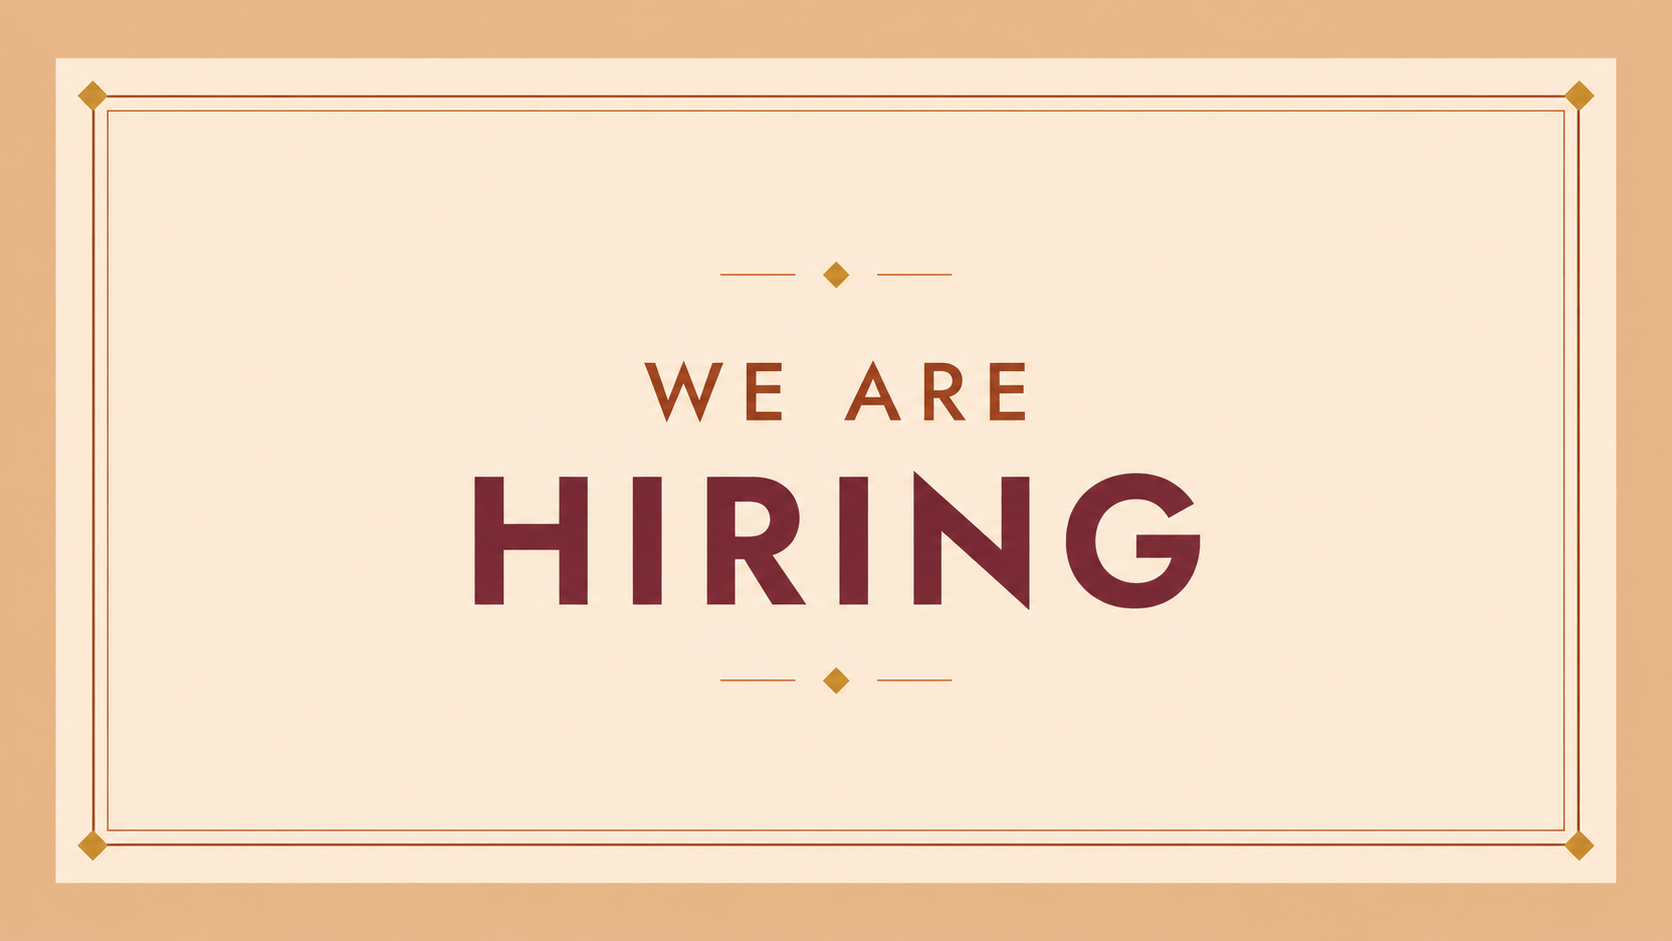
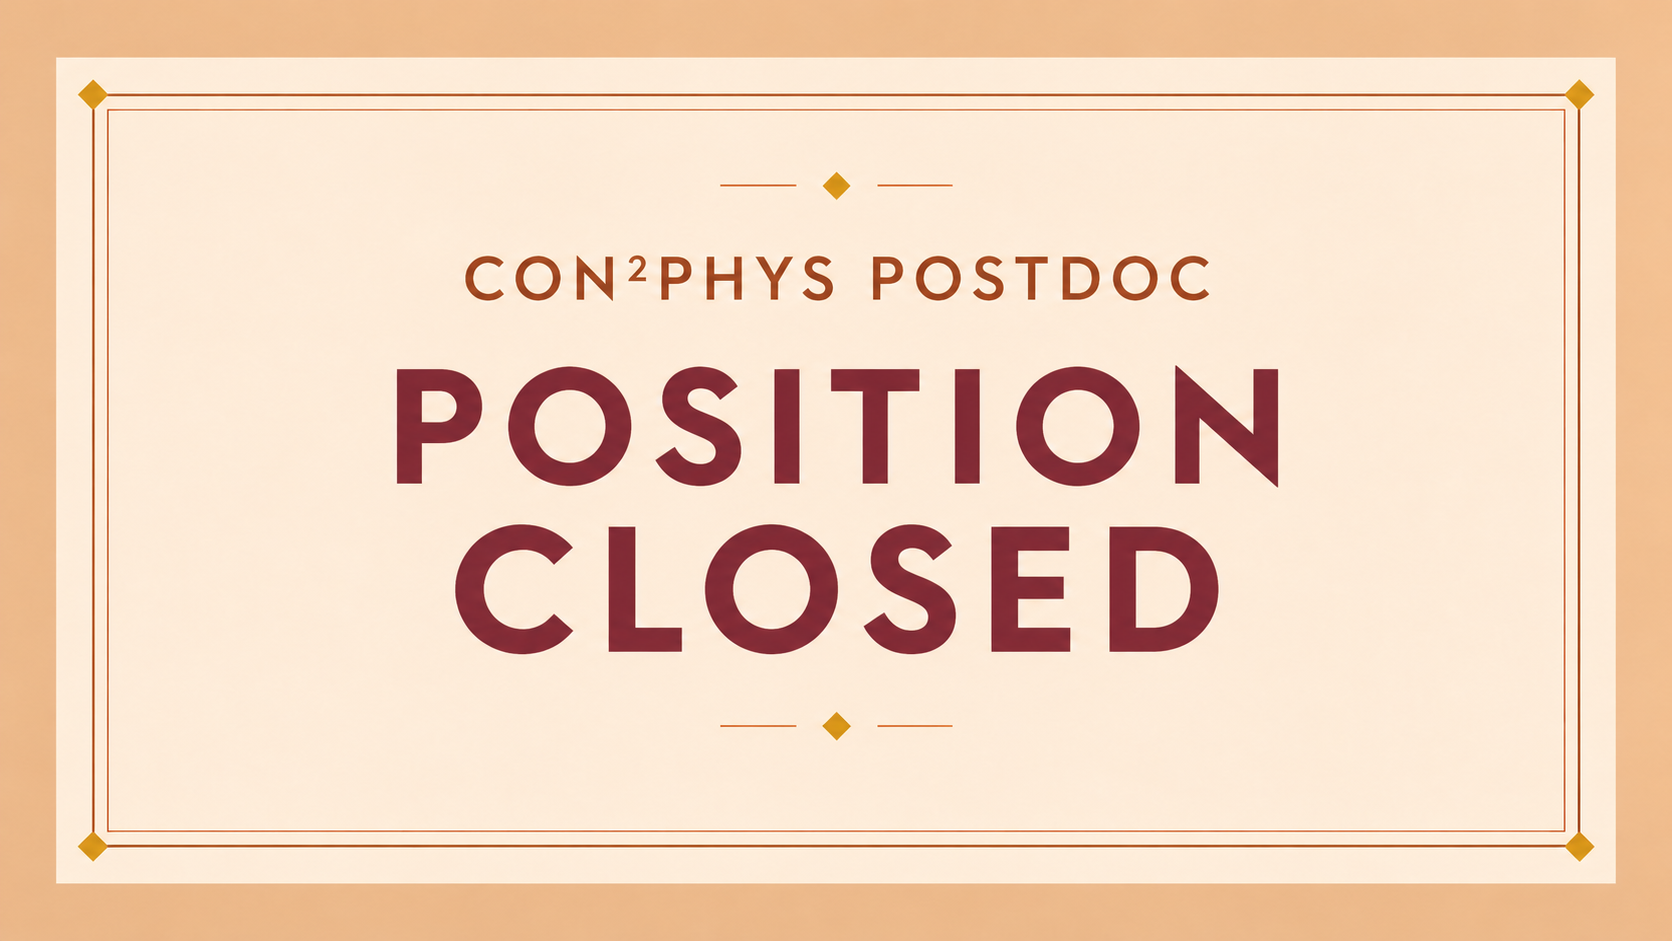
prenano

diff --git a/content/opportunities/_index.md b/content/opportunities/_index.md
@@ -1,35 +1,36 @@
 ---
 title: "Opportunities"
-summary: "Open positions at the Chini Lab, GIGA–ULiège."
+summary: "Funded postdoctoral and PhD positions at the Chini Lab, GIGA–ULiège."
 image:
   filename: "media/og/opportunities.png"
   share: false
-# description: "Current postdoctoral and spontaneous opportunities in the lab."
-type: page 
+# description: "Current funded positions and spontaneous opportunities in the lab."
+type: page
 ---
 <div style="height: 14px;"></div>
 
-## Funded postdoctoral position: CON²PHYS
+## We are hiring: postdoc and PhD positions
 
 <div class="postdoc-callout">
-  <p><strong>The Chini Lab at GIGA–ULiège is looking for an enthusiastic postdoctoral researcher to work on CON²PHYS and related projects.</strong></p>
-  <p>CON²PHYS is a community-wide study of how neuroscientists define, analyze, and interpret electrophysiological phenomena when working with the same data. The project combines systems and computational neuroscience with questions about reproducibility, conceptual consistency, open science, and scientific collaboration.</p>
-  <p>Enthusiasm, curiosity, independence, and genuine interest in the project are the most important qualities.</p>
-  <p>To express your interest, email <a href="mailto:mchini@uliege.be">mchini@uliege.be</a> with your CV and a brief explanation of why the project interests you.</p>
+  <p><strong>We are looking for a postdoctoral researcher and a PhD student to join the Chini Lab at GIGA–ULiège, ideally starting in March 2027!</strong></p>
+  <p>Our lab has received funding as part of a new European research consortium investigating how exposure to nanoplastics during pregnancy may affect early brain development. Together with our collaborators, we will study the consequences for the formation and maturation of neuronal circuits, combining approaches ranging from animal models to human brain organoids. More details about the consortium will be shared following the official announcement.</p>
+  <p><strong>Two positions are available:</strong> a 2-year postdoctoral position and a fully funded 4-year PhD position.</p>
+  <p>Enthusiasm, intellectual curiosity, independence, and a genuine interest in developmental neuroscience matter most. We welcome candidates from different backgrounds who are excited by the questions behind the project.</p>
+  <p>Interested? Email <a href="mailto:mchini@uliege.be">mchini@uliege.be</a> with your CV and a brief message explaining why you would like to join us. A formal cover letter is not necessary at this stage.</p>
   <div class="postdoc-actions">
-    <a class="postdoc-btn postdoc-btn-primary" href="{{< relref "/news/2026-07-15-postdoc-con2phys" >}}">Read the full position description →</a>
-    <a class="postdoc-btn postdoc-btn-secondary" href="mailto:mchini@uliege.be?subject=Postdoctoral%20position%20%E2%80%94%20CON2PHYS">Email Mattia Chini →</a>
+    <a class="postdoc-btn postdoc-btn-primary" href="mailto:mchini@uliege.be?subject=Postdoctoral%20position%20%E2%80%94%20Early%20brain%20development">Postdoc: get in touch →</a>
+    <a class="postdoc-btn postdoc-btn-secondary" href="mailto:mchini@uliege.be?subject=PhD%20position%20%E2%80%94%20Early%20brain%20development">PhD: get in touch →</a>
   </div>
 </div>
 
-## Open applications
+## Spontaneous applications
 
-We welcome spontaneous applications from enthusiastic scientists at any stage: master’s students, PhDs, or postdocs. 
-If you are driven by curiosity and want to work at the intersection of developmental biology, systems and computational neuroscience, 
-you are encouraged to get in touch. All backgrounds, from biology and medicine to physics and mathematics, are welcome to apply.
+We also welcome spontaneous applications from enthusiastic scientists at any stage: master's students, PhD students, or postdocs.
+If you are driven by curiosity and want to work at the intersection of developmental biology, systems and computational neuroscience,
+you are encouraged to get in touch. All backgrounds, from biology and medicine to physics and mathematics, are welcome.
 
-If you are interested, please send a short message explaining why you would like to join the lab, along with a brief CV. 
-You can contact me via e-mail or on socials - details are [here](/contact/).
+If you are interested, please send a short message explaining why you would like to join the lab, along with a brief CV.
+You can contact me via email or on socials — details are [here](/contact/).
 
 <div style="display: flex; justify-content: center; align-items: center; gap: 2em; margin-bottom: 1em;">
   <img src="uliege_logo.png" alt="University of Liège" style="height:70px;">

diff --git a/content/news/2026-07-15-postdoc-con2phys/index.md b/content/news/2026-07-15-postdoc-con2phys/index.md
@@ -1,11 +1,10 @@
 ---
-title: "Join us: postdoctoral position on CON²PHYS and related projects"
+title: "CON²PHYS postdoctoral position — applications closed"
 date: 2026-07-15
-summary: "We are looking for an enthusiastic postdoctoral researcher to join the Chini Lab at GIGA–ULiège and work on CON²PHYS, a community-wide project investigating how neuroscientists interpret and analyze the same electrophysiology data."
+summary: "Applications for this CON²PHYS postdoctoral position are now closed. This announcement is kept online for reference."
 tags:
   - CON²PHYS
   - Postdoc
-  - Open position
   - Computational neuroscience
   - Systems neuroscience
   - Open science
@@ -16,7 +15,7 @@ profile: false
 ---
 <div style="height: 14px;"></div>
 
-I am looking for an enthusiastic postdoctoral researcher to join us at GIGA–ULiège and work on CON²PHYS and related projects.
+**Update (November 2026): Applications for this position are now closed. Thanks to everyone who expressed interest! We are recruiting for other projects, please check the news item just above this.**
 
 ## What is CON²PHYS?
 
@@ -27,39 +26,30 @@ In the project, independent teams analyze the same electrophysiology dataset and
 We modeled our study on [this](https://www.nature.com/articles/s41586-020-2314-9) landmark fMRI paper from the Schonber group.
 Our pilot studies revealed striking differences in how experienced researchers define, detect, and interpret even basic phenomena such as hippocampal ripples, spike-train interactions, and functional connectivity.
 
-CON²PHYS is now closing in on being a final project, and this is where your help would be needed. The project sits at the intersection of systems neuroscience, metascience, open science, and large-scale scientific collaboration. 
+At the time of the call, CON²PHYS was moving toward its main phase. The project sits at the intersection of systems neuroscience, metascience, open science, and large-scale scientific collaboration. 
 It is run as an "affiliate" project to the International Brain Laboratory.
 
 Learn more about [CON²PHYS](https://mchini.github.io/con2phys/index.html)
 
 Read about the pilot results in [The Transmitter](https://www.thetransmitter.org/reproducibility/eighteen-teams-analyzed-the-same-neurophysiology-dataset-and-got-wildly-different-answers/)
 
-## Who are we looking for?
+## Who were we looking for?
 
-The most important qualities are enthusiasm, intellectual curiosity, independence, and a strong interest in the questions behind the project.
+The most important qualities were enthusiasm, intellectual curiosity, independence, and a strong interest in the questions behind the project.
 
-The position may be particularly appealing to someone interested in one or more of the following:
+The position was particularly appealing to someone interested in one or more of the following:
 
 - systems or computational neuroscience;
 - analysis of electrophysiological data;
 - reproducibility, metascience, or open science;
 - collaborative and community-driven research.
 
-Experience with electrophysiology or quantitative data analysis would be useful, but candidates with adjacent backgrounds who are excited by the project are also welcome.
+Experience with electrophysiology or quantitative data analysis was useful, but we also welcomed candidates with adjacent backgrounds who were excited by the project.
 
 ## The environment
 
-The position will be based in the Chini Lab at the [GIGA Institute](https://www.giga.uliege.be/), [University of Liège](https://www.uliege.be/).
+The position was based in the Chini Lab at the [GIGA Institute](https://www.giga.uliege.be/), [University of Liège](https://www.uliege.be/).
 
-The position is supported by a Crédit sectoriel de Recherche – FSR 2026 from the University of Liège.
-
-## Interested?
-
-Please email Mattia Chini at [mchini@uliege.be](mailto:mchini@uliege.be?subject=Postdoctoral%20position%20%E2%80%94%20CON2PHYS) with:
-
-- your CV;
-- a brief message explaining why the project interests you and why you would like to join the lab.
-
-Formal cover letters are not necessary at this initial stage. A clear expression of interest is more useful than a highly polished but vague LLM-generated application.
+The position was supported by a Crédit sectoriel de Recherche – FSR 2026 from the University of Liège.
 
 <div style="clear: left;"></div>

diff --git a/content/news/2026-11-23-prenano/index.md b/content/news/2026-11-23-prenano/index.md
@@ -1,0 +1,34 @@
+---
+title: "New grant, new opportunities!"
+date: 2026-11-23
+summary: "Our lab has been awarded funding as part of a new European research consortium! We are now recruiting a postdoc and a PhD student to investigate how exposure to nanoplastics during pregnancy may affect early brain development."
+tags:
+  - Grant
+  - Open position
+  - Postdoc
+  - PhD
+  - Developmental neuroscience
+  - Brain development
+  - Nanoplastics
+image:
+  preview_only: true
+profile: false
+---
+<div style="height: 14px;"></div>
+
+I'm very happy to share that our lab has been awarded funding as part of a new European research consortium! The official announcement will come later, but I can already share a few details about the project and, most importantly, 
+start looking for people to join us!
+
+The project will investigate **how exposure to nanoplastics during pregnancy may affect early brain development**. 
+Can these tiny particles reach the developing brain? And if so, what are their consequences for the maturation of neuronal circuits and brain function? 
+Together with a unique multidisciplinary team of collaborators, we will address these questions by combining different experimental approaches, from animal models to human brain organoids.
+
+**And this brings me to the exciting part: we are recruiting!**
+
+I'm looking for **one postdoc (2 years) and one PhD student (4 years, fully funded)** to join our lab at the GIGA Institute, ideally starting in March 2027.
+
+If you're interested in developmental neuroscience and would like to work on a project combining fundamental research with a question of growing environmental and public health relevance, I'd love to hear from you!
+
+Feel free to [get in touch](mailto:mchini@uliege.be?subject=European%20consortium%20research%20position), and please share with anyone who might be interested!
+
+<div style="clear: left;"></div>
